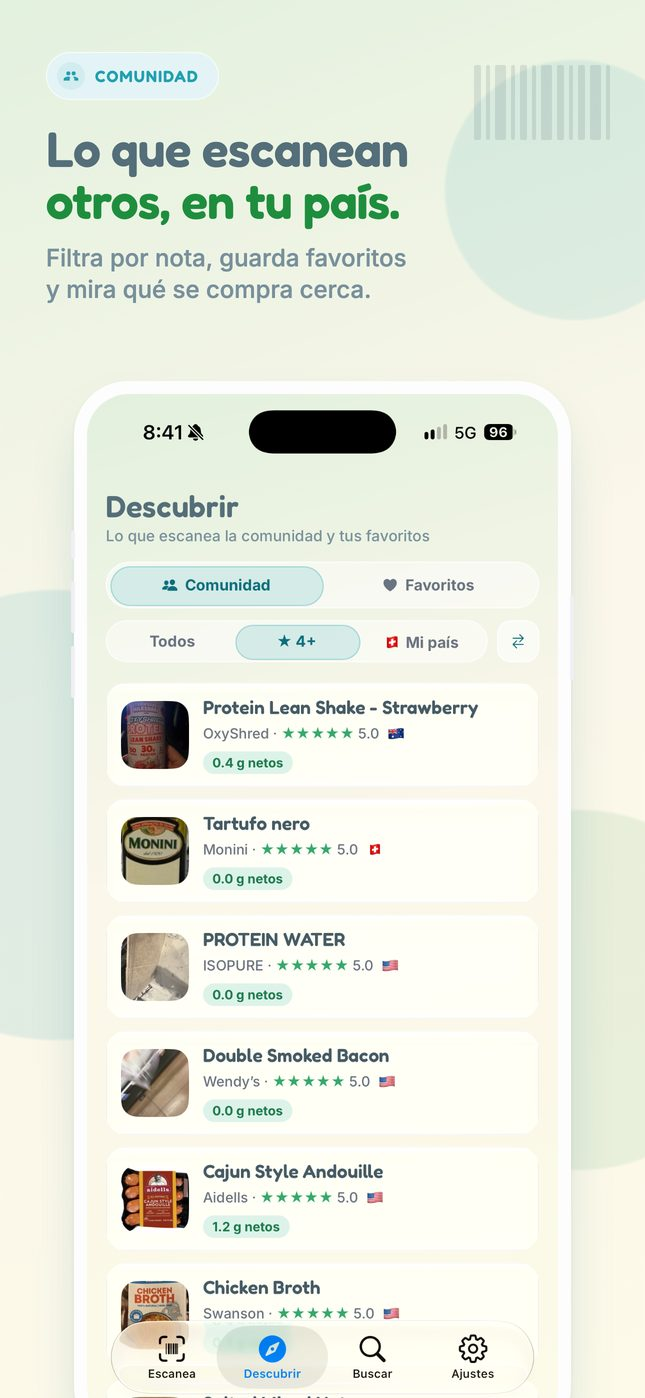
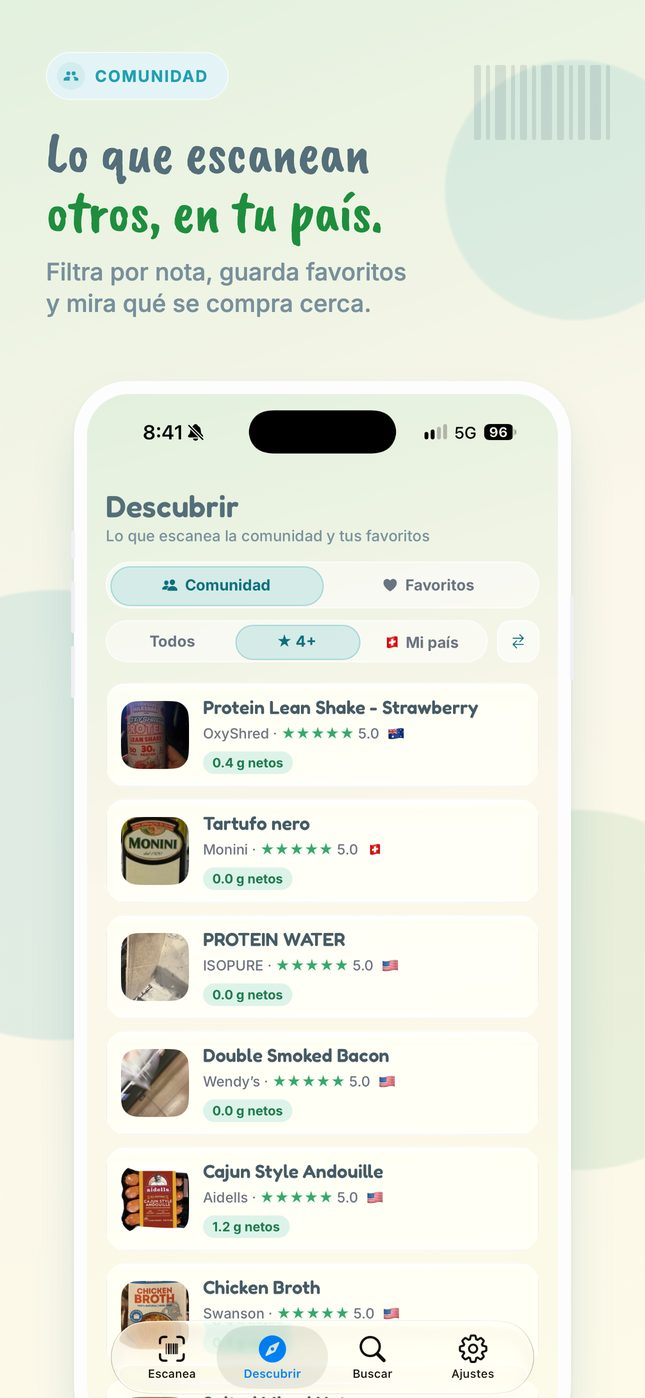
Landing con las letras de la app: Caveat Brush en titulos, Inter en el resto; capturas regeneradas
Claude-Session: https://claude.ai/code/session_014KDvAyfaWwaYKzJdQoURSA

Changed region(s): [[0.062, 0.0923, 0.6512, 0.2461], [0.155, 0.0308, 0.3101, 0.0615]]

diff --git a/styles.css b/styles.css
@@ -4467,7 +4467,7 @@ body.has-smart-banner .navbar {
     fill: rgba(255,255,255,0.28);
 }
 .escaner-visor .cuadro-keto {
-    font-family: 'Fredoka', 'Inter', sans-serif;
+    font-family: 'Inter', sans-serif;
     font-weight: 700;
     font-size: 84px;
     letter-spacing: 0.14em;
@@ -4502,7 +4502,7 @@ body.has-smart-banner .navbar {
     background: #fff;
     border-radius: 999px;
     padding: 15px 18px;
-    font-family: 'Fredoka', 'Inter', sans-serif;
+    font-family: 'Inter', sans-serif;
     font-weight: 600;
     font-size: 18px;
     color: #0F6E7C;
@@ -4592,13 +4592,19 @@ body.has-smart-banner .navbar {
 }
 body { background: var(--papel); }
 
-h1, h2, h3, h4, .section-badge, .logo-text, .store-button, .store-button-small,
+/* Dos letras, como en la app: Caveat Brush (la del icono) en los titulos e Inter en el resto */
+h3, h4, .section-badge, .logo-text, .store-button, .store-button-small,
 .benefit-pill, .download-feature, .feature-card h3, .step-card h3, .rating-item h3,
-.faq-question, .modal h2, .modal h3, .its-keto-title {
-    font-family: 'Fredoka', 'Inter', sans-serif;
+.faq-question, .modal h3 {
+    font-family: 'Inter', sans-serif;
 }
-h2 { color: var(--text-light); font-weight: 600; letter-spacing: -0.01em; }
-h3 { color: var(--text-medium); font-weight: 600; }
+h1, h2, .its-keto-title, .modal h2 {
+    font-family: 'Caveat Brush', 'Inter', cursive;
+    font-weight: 400;
+    letter-spacing: 0.01em;
+}
+h2 { color: var(--text-light); font-size: clamp(38px, 5vw, 56px); line-height: 1.05; }
+h3 { color: var(--text-medium); font-weight: 700; }
 .text-green, .keto-word { color: var(--verde) !important; }
 .gradient-text {
     background: linear-gradient(135deg, #21A0B1, #0F6E7C);
@@ -4617,11 +4623,11 @@ h3 { color: var(--text-medium); font-weight: 600; }
     background-size: auto;
     animation: none;
 }
-.hero h1 { font-weight: 600; letter-spacing: -0.01em; color: var(--text-light); }
+.hero h1 { font-weight: 400; letter-spacing: 0.01em; color: var(--text-light); font-size: clamp(56px, 7vw, 108px); line-height: 1.0; }
 .hero-visual::before { background: radial-gradient(circle, rgba(33,160,177,0.22), rgba(30,142,62,0.10), transparent 70%); }
 .hero-wave svg path { fill: #FDFAE9; }
 .benefit-pill { background: rgba(255,255,255,0.7); border: 1px solid rgba(84,110,122,0.14); color: var(--text-medium); }
-.nav-links a { color: var(--text-light); font-family: 'Fredoka', 'Inter', sans-serif; font-weight: 600; }
+.nav-links a { color: var(--text-light); font-family: 'Inter', sans-serif; font-weight: 600; }
 .nav-links a:hover, .nav-links a.active { background: rgba(33,160,177,0.12); color: var(--primary-dark); }
 .hero-price { color: var(--primary-dark); }
 

diff --git a/index.html b/index.html
@@ -145,7 +145,7 @@
     <!-- Fonts -->
     <link rel="preconnect" href="https://fonts.googleapis.com">
     <link rel="preconnect" href="https://fonts.gstatic.com" crossorigin>
-    <link href="https://fonts.googleapis.com/css2?family=Inter:wght@400;500;600;700;800&family=Fredoka:wght@600;700&display=swap" rel="stylesheet">
+    <link href="https://fonts.googleapis.com/css2?family=Inter:wght@400;500;600;700;800&family=Caveat+Brush&display=swap" rel="stylesheet">
     <link rel="stylesheet" href="https://cdnjs.cloudflare.com/ajax/libs/font-awesome/6.5.1/css/all.min.css">
     <link rel="stylesheet" href="styles.css">
 </head>
